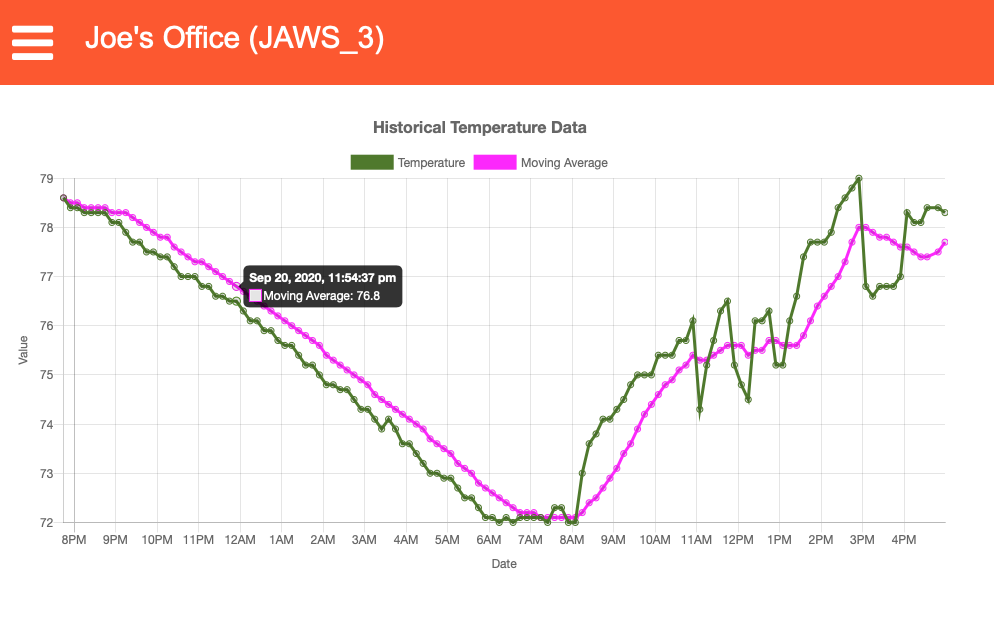
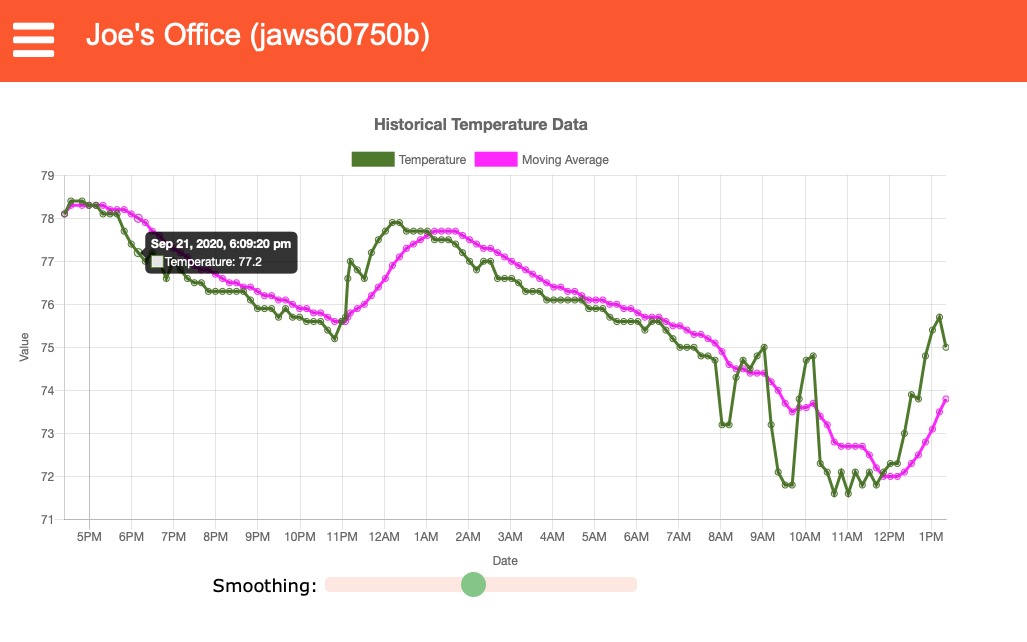
Update description of the Chart page

Changed region(s): [[0.0, 0.274, 0.9668, 0.9439], [0.0, 0.0304, 1.0, 0.1522], [0.3431, 0.1827, 0.6237, 0.274]]

diff --git a/README.md b/README.md
@@ -261,9 +261,9 @@ Blynk QR Code:<br><img src="doc/images/BlynkQRCode.jpg" width="250" /></img><br>
 
 You can always access the current JAWS readings via the Web UI. This is the same UI you used to configure JAWS. Just go to the home page and you will see current readings. You'll also find an item in the hamburger menu that allows you to force JAWS to take a new reading.
 
-Additionally there is a chart page that produces a chart of temperature over time. This is the same sort of graph that is displayed on the Graph screen in the GUI (if you have that enabled). The chart shows the temperature over time. It currently stores 128 readings, so if you are taking readings every 10 minutes, then this is roughly 21 hours of data. the chart also displays a moving average of the temperature that will give you a smoothed view of the data. You can turn off either of these lines by clicking the corresponding label in the legend.
+Additionally there is a chart page that produces a chart of temperature over time. This is the same sort of graph that is displayed on the Graph screen in the GUI (if you have that enabled). The chart shows the temperature over time. It currently stores 128 readings, so if you are taking readings every 10 minutes, then this is roughly 21 hours of data. The chart also displays a moving average of the temperature that will give you a smoothed view of the data. You can control the level of smoothing using the slider below the chart.
 
-An example of the chart page is given below. Click the image to see a larger version.
+If you hover your mouse over a point on either line (temperature or moving average), you'll see a popup with the timestamp and value). You can also turn on/off either of the lines by clicking the corresponding label in the legend. An example of the chart page is given below. Click the image to see a larger version.
 
 <a href="doc/images/ChartPage.png"><img src="doc/images/ChartPage.png" width="512" /></img></a>
 
